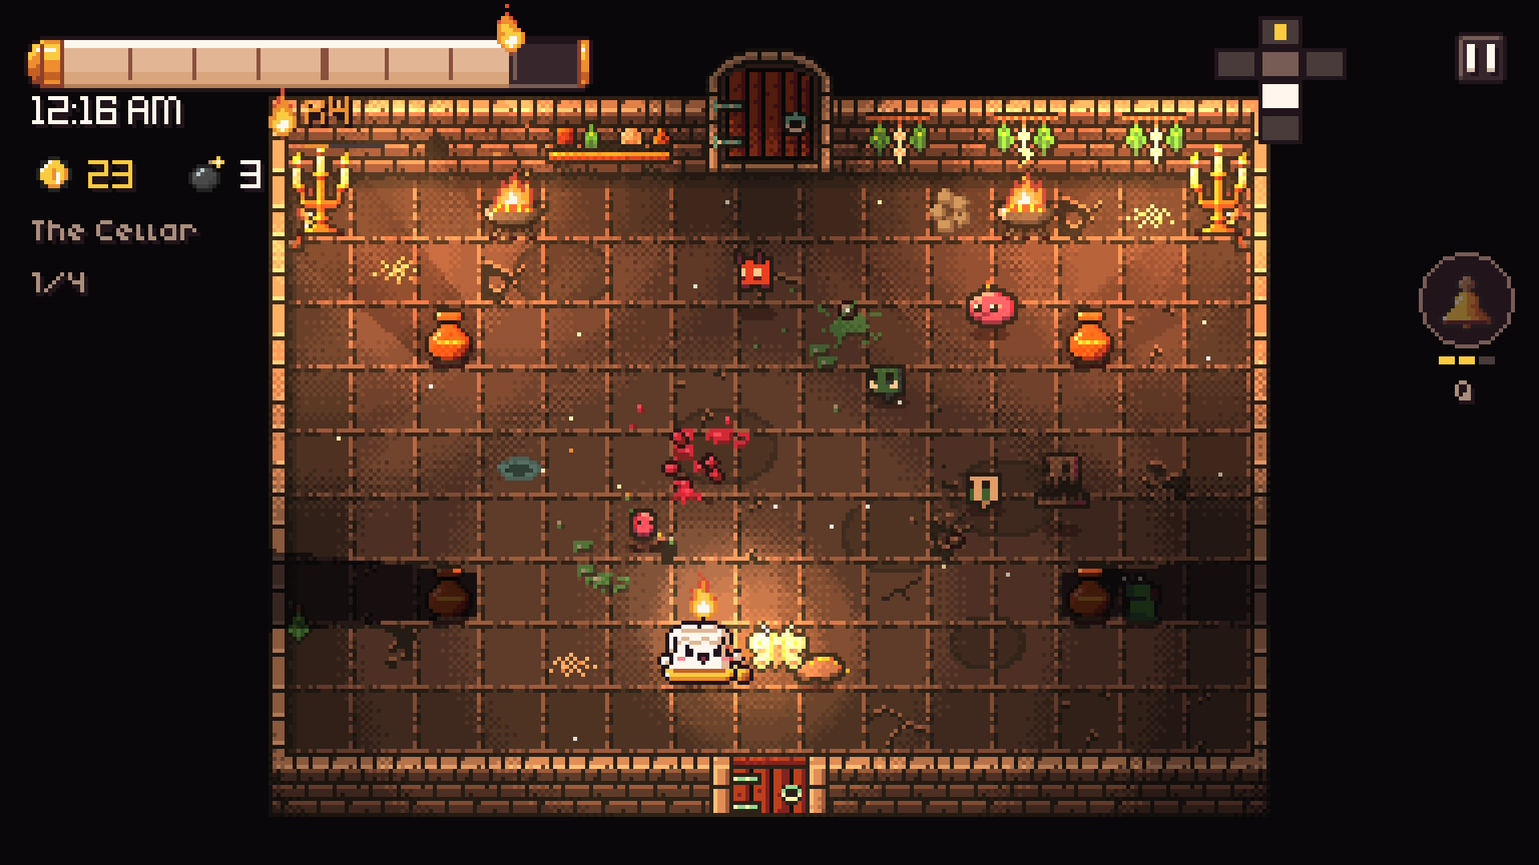
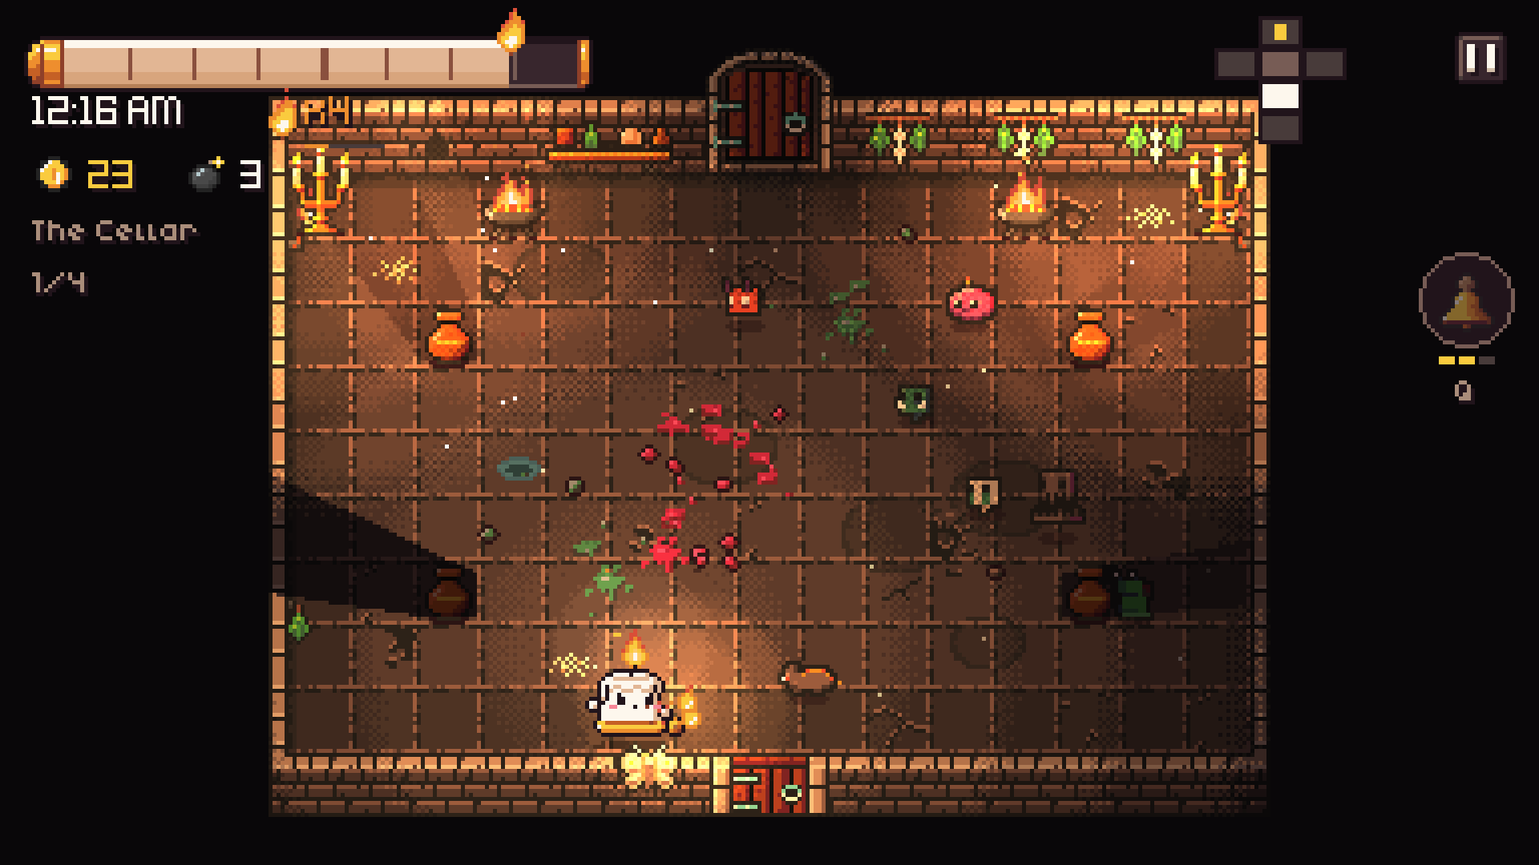
REL-08 C4 REL-10: hero key art (Tallow 3x, warm light, the Wax Mother), brightness judge, 16:9 touch shots for Play
- scripts/store_shots.gd: new key-art layouts 'hero' and 'hero_tall': Tallow
  fires at the Wax Mother (a guardian made for this game) lit by her own
  candles, one Melt Drop, a clean Cellar floor, warm darkness; every key is
  also a --key<name> flag. Flames are caught in flight and any hit flash is
  cleared, Tallow gets a fighting face (no blink), and every staging run starts
  from a seasoned save (all achievements earned) so no first-time toast lands
  on a picture (05_boss_card and 06_low_wax had 'BELL CLIMBER' toasts).
- tools/store_art.py: the capsules, Play feature graphic, itch cover and press
  key art use the hero renders at art scale 12 (main), 9 (header), 11/10
  (vertical / library), 8 (Play), 7 (itch): Tallow 3x bigger in the main and
  header capsules. A per-pixel mid-tone lift and a shallower stepped darkness
  (no blur, whole-number scaling only). Every run ends with a judge: mean luma
  >= 70 and < 35% of pixels below 30 per capsule. Each render now runs on a
  throw-away save profile.
  Judge (1.9.3 -> now): main 34.8/68% -> 108.6/9.4%, header 30.4/72% ->
  114.7/6.7%, small 46.1/70% -> 86.9/14.6%, vertical -> 118.2/6.2%, library
  capsule -> 118.5/4.4%, library hero -> 80.0/19.3%, Play 31.1/74% ->
  98.2/9.8%, itch 31.5/72% -> 109.7/6.4%: all PASS. The warm pool (luma >= 110)
  covers 37-52% of each capsule. --review also writes small_capsule_on_steam.png
  (231x87 and 184x69 on #1b2838): the logo reads at both sizes.
[…]

diff --git a/wax-and-wane/tools/store_art.py b/wax-and-wane/tools/store_art.py
@@ -14,7 +14,13 @@ Options:
     --import        run `godot --headless --import` first (after new or changed assets)
     --no-render     rebuild the images from the last renders in build/store_raw/ (a few seconds)
     --raw DIR       where the raw renders go (default build/store_raw, git-ignored)
-    --review DIR    also write review sheets: every capsule at the size Steam really shows it
+    --review DIR    also write review sheets: every capsule at the size Steam really shows it, on Steam's
+                    dark-blue page (#1b2838), plus small_capsule_on_steam.png at 231 x 87 and 184 x 69
+
+Every run ends with the brightness judge (REL-08 / C4): each capsule's mean luma must be >= 70/255 with fewer
+than 35% of its pixels darker than 30, so the art doesn't sink into Steam's dark page. The capsules use the
+"hero" key-art layouts (scripts/store_shots.gd): Tallow about three times bigger than before, in one warm pool
+of light, beside the Wax Mother (a guardian made for this game).
 
 Output: docs/marketing/store_assets/ (README.md there lists each file and where it is uploaded).
 """
@@ -23,6 +29,7 @@ import os
 import shutil
 import subprocess
 import sys
+import tempfile
 
 import numpy as np
 from PIL import Image, ImageDraw, ImageFont
@@ -41,12 +48,18 @@ STEPS = np.array([1.0, 0.7, 0.46, 0.27, 0.13, 0.04, 0.0], dtype=np.float32)
 # store screenshots, in upload order (the names scripts/store_shots.gd saves)
 STEAM_SHOTS = ["cellar_fight", "boss_fight", "chapel_light", "seance", "boss_card", "low_wax", "treasure",
                "relic_aloft", "shop", "title"]
-PHONE_SHOTS = ["cellar_fight", "boss_fight", "relic_aloft"]
-RENDERS = [  # (raw folder, window, autotest arguments): run one after another (they share one save file)
-    ("keyart", "1920x1080", ["--keyart"]),                          # the cast laid out wide
-    ("keyart_tall", "1920x1080", ["--keyart", "--keylayout=tall"]),  # ...and stacked, for portrait capsules
+PHONE_SHOTS = ["cellar_fight", "boss_fight", "relic_aloft"]   # 18:9 (2:1) extras
+# Google Play's phone screenshots: 16:9 at 1920 x 1080 with the touch HUD (Play wants at least four 16:9
+# shots of 1080p or more before it recommends a game), the clock-and-candle shot first
+PHONE16_SHOTS = ["cellar_fight", "boss_fight", "chapel_light", "seance", "low_wax", "relic_aloft"]
+RENDERS = [  # (raw folder, window, autotest arguments): one after another, each on its own fresh save profile
+    ("keyart", "1920x1080", ["--keyart"]),                          # the cast laid out wide (page background)
+    ("keyart_tall", "1920x1080", ["--keyart", "--keylayout=tall"]),  # ...and stacked
+    ("keyart_hero", "1920x1080", ["--keyart", "--keylayout=hero"]),            # the capsules: Tallow and the Wax Mother
+    ("keyart_hero_tall", "1920x1080", ["--keyart", "--keylayout=hero_tall"]),  # ...stacked, for portrait capsules
     ("shots", "1920x1080", ["--shots-store"]),
     ("phone", "2160x1080", ["--shots-store", "--phone"]),   # 18:9 phone, the widest Google Play accepts (2:1)
+    ("phone16x9", "1920x1080", ["--shots-store", "--phone"]),   # 16:9 with the touch HUD (Play's recommendations)
 ]
 
 
@@ -62,8 +75,13 @@ def render(raw):
                "--rendering-driver", "opengl3", "--resolution", res, "--",
                "--autotest"] + extra + ["--shots=" + d]
         print("[store_art] rendering %s at %s ..." % (name, res), flush=True)
+        # a private, throw-away save profile: the staging plays seeded runs and marks every achievement as
+        # earned (no toasts in the pictures), which must never land in a real player's save
+        prof = tempfile.mkdtemp(prefix="waxandwane_store.")
+        env = dict(os.environ, XDG_DATA_HOME=prof)
         with open(os.path.join(raw, name + ".log"), "w") as log:
-            r = subprocess.run(cmd, stdout=log, stderr=subprocess.STDOUT, timeout=900)
+            r = subprocess.run(cmd, stdout=log, stderr=subprocess.STDOUT, timeout=900, env=env)
+        shutil.rmtree(prof, ignore_errors=True)
         made = sorted(f for f in os.listdir(d) if f.endswith(".png"))
         print("[store_art]   exit %d, %d images" % (r.returncode, len(made)))
         with open(os.path.join(raw, name + ".log")) as log:
@@ -104,6 +122,15 @@ def darken(img, t):
     bg = np.array(CLEAR, dtype=np.float32)
     out = bg + (a - bg) * f
     return Image.fromarray(np.clip(out + 0.5, 0, 255).astype(np.uint8), "RGB")
+
+
+def lift(img, g):
+    """Lifts the mid-tones of a native-size image by a per-channel gamma curve (g < 1 brightens). A per-pixel
+    lookup: every pixel stays a hard square, nothing is blurred or blended between pixels."""
+    if g == 1.0:
+        return img
+    lut = [int(round(255.0 * (v / 255.0) ** g)) for v in range(256)]
+    return img.convert("RGB").point(lut * 3)
 
 
 def ramp(d, r0, r1):
@@ -167,6 +194,10 @@ def logo(k, shadow=True):
 # ---------------------------------------------------------------- key art
 
 class KeyArt:
+    # sprite boxes above each creature's feet (game pixels): Tallow with its flame, the hero guardian
+    TALLOW_BOX = (-12, -30, 12, 2)
+    GUARD_BOX = (-21, -40, 21, 2)
+
     def __init__(self, raw, layout="keyart"):
         d = os.path.join(raw, layout)
         self.full = Image.open(os.path.join(d, "keyart_full.png")).convert("RGB")
@@ -182,11 +213,24 @@ class KeyArt:
         self.cast = ((min(xs) + max(xs)) / 2.0, (min(ys) + max(ys)) / 2.0)
         self.room = self.info["room"]
 
+    def pair_box(self):
+        """The box round Tallow (with its flame) and the guardian, in keyart_full.png pixels."""
+        tx, ty = self.tallow
+        b = [tx + self.TALLOW_BOX[0], ty + self.TALLOW_BOX[1], tx + self.TALLOW_BOX[2], ty + self.TALLOW_BOX[3]]
+        if "guardian" in self.info:
+            gx, gy = self.info["guardian"]
+            b = [min(b[0], gx + self.GUARD_BOX[0]), min(b[1], gy + self.GUARD_BOX[1]),
+                 max(b[2], gx + self.GUARD_BOX[2]), max(b[3], gy + self.GUARD_BOX[3])]
+        return b
+
     def point(self, ref):
-        """("tallow" | "cast" | "room", dx, dy) -> a point in keyart_full.png."""
+        """("tallow" | "cast" | "pair" | "room", dx, dy) -> a point in keyart_full.png."""
         name, dx, dy = ref
         if name == "tallow":
             x, y = self.tallow
+        elif name == "pair":   # the middle of Tallow and the guardian
+            b = self.pair_box()
+            x, y = (b[0] + b[2]) / 2.0, (b[1] + b[3]) / 2.0
         elif name == "cast":
             x, y = self.cast
         else:
@@ -195,11 +239,13 @@ class KeyArt:
 
     def compose(self, size, k, centre, logo_k=0, logo_at=(0.5, 0.2), pool=(0, -14, 90, 70), pool_r=(0.5, 1.3),
                 edge=(0.0, 0.0), edge_sides="lrtb", plate_strength=0.75, plate_soft=16, dim=1.0,
-                guard=(0, -18, 30, 32), fade_l=None):
+                guard=(0, -18, 30, 32), fade_l=None, depth=1.0, gamma=1.0):
+        """depth: how dark the stepped darkness outside the light pool gets (1 = down to the clear colour,
+        0.3 = only a step or two); gamma: the mid-tone lift (lift())."""
         W, H = size
         nw, nh = -(-W // k), -(-H // k)
         cx, cy = self.point(centre)
-        nat = window(self.full, cx, cy, nw, nh)
+        nat = lift(window(self.full, cx, cy, nw, nh), gamma)
         ox, oy = (nw * k - W) // 2, (nh * k - H) // 2
         # darkness: a pool of light round Tallow, the borders, and a backing under the logo
         tx, ty = self.tallow[0] - cx + nw / 2.0, self.tallow[1] - cy + nh / 2.0
@@ -207,8 +253,9 @@ class KeyArt:
         if guard and "guardian" in self.info:   # the guardian keeps its cold rim light
             gx, gy = self.info["guardian"][0] - cx + nw / 2.0, self.info["guardian"][1] - cy + nh / 2.0
             t = np.minimum(t, light_pool(nw, nh, gx + guard[0], gy + guard[1], guard[2], guard[3], 0.45, 1.15))
+        t = t * depth
         if edge[0] or edge[1]:
-            t = np.maximum(t, edges(nw, nh, edge[0], edge[1], edge_sides))
+            t = np.maximum(t, edges(nw, nh, edge[0], edge[1], edge_sides) * max(depth, 0.5))
         if fade_l:   # a dark panel on the left (for a logo beside the art): black up to x0, clear from x1
             xx = np.arange(nw, dtype=np.float32)[None, :].repeat(nh, 0)
             t = np.maximum(t, 1.0 - ramp(xx, fade_l[0], fade_l[1]))
@@ -232,34 +279,70 @@ class KeyArt:
 
 # Every capsule: output size, art scale k, crop centre, logo scale and centre (fractions of the size),
 # the light pool round Tallow (dx, dy, rx, ry in game pixels) and dark borders.
+# The capsules use the "hero" renders (Tallow and the Wax Mother); `depth` keeps the darkness outside the warm pool
+# to a step or two and `gamma` lifts the mid-tones, so every capsule passes the judge (judge() below).
+HERO = dict(depth=0.34, gamma=0.86, plate_strength=0.6)
 CAPSULES = [
-    # (file, kwargs)
-    ("steam/header_capsule_920x430.png", dict(size=(920, 430), k=3, centre=("tallow", -36, -31), logo_k=2, logo_at=(0.27, 0.47),
-                                              pool=(14, -14, 110, 66), edge=(16, 10), plate_soft=20, fade_l=(96, 138))),
-    ("steam/small_capsule_462x174.png", dict(size=(462, 174), k=2, centre=("tallow", 0, -40), logo_k=2, logo_at=(0.5, 0.37),
-                                             pool=(0, -14, 70, 40), edge=(22, 10), plate_strength=0.55, plate_soft=10,
-                                             guard=None)),
-    ("steam/main_capsule_1232x706.png", dict(size=(1232, 706), k=4, centre=("cast", 8, -6), logo_k=4, logo_at=(0.5, 0.16),
-                                             pool=(14, -12, 130, 80), edge=(20, 12))),
-    ("steam/vertical_capsule_748x896.png", dict(layout="tall", size=(748, 896), k=4, centre=("cast", 0, -14), logo_k=3, logo_at=(0.5, 0.12),
-                                                pool=(18, -12, 90, 90), edge=(16, 20))),
-    ("steam/library_capsule_600x900.png", dict(layout="tall", size=(600, 900), k=4, centre=("cast", 0, -10), logo_k=2, logo_at=(0.5, 0.1),
-                                               pool=(18, -12, 80, 90), edge=(14, 20))),
-    ("steam/library_hero_3840x1240.png", dict(size=(3840, 1240), k=9, centre=("tallow", 40, -22),
-                                              pool=(16, -12, 120, 64), edge=(150, 12))),
+    # (file, kwargs): k = art scale (whole numbers only), centre = crop centre, logo_k / logo_at = logo scale and place
+    ("steam/header_capsule_920x430.png", dict(layout="hero", size=(920, 430), k=9, centre=("pair", -10, -3), logo_k=2,
+                                              logo_at=(0.25, 0.14), pool=(16, -10, 34, 26), pool_r=(0.7, 2.2), edge=(3, 2),
+                                              plate_soft=6, **HERO)),
+    ("steam/small_capsule_462x174.png", dict(layout="hero", size=(462, 174), k=3, centre=("pair", 0, -6), logo_k=2, logo_at=(0.5, 0.27),
+                                             pool=(16, -10, 40, 26), pool_r=(0.7, 2.2), edge=(3, 2), plate_soft=5,
+                                             guard=None, **dict(HERO, plate_strength=0.5))),
+    ("steam/main_capsule_1232x706.png", dict(layout="hero", size=(1232, 706), k=12, centre=("pair", 0, -7), logo_k=4, logo_at=(0.5, 0.14),
+                                             pool=(16, -10, 36, 26), pool_r=(0.7, 2.2), edge=(3, 2), plate_soft=4, **HERO)),
+    ("steam/vertical_capsule_748x896.png", dict(layout="hero_tall", size=(748, 896), k=11, centre=("pair", 0, -6), logo_k=3,
+                                                logo_at=(0.5, 0.085), pool=(8, -14, 30, 34), pool_r=(0.7, 2.2), edge=(3, 3),
+                                                plate_soft=4, **HERO)),
+    ("steam/library_capsule_600x900.png", dict(layout="hero_tall", size=(600, 900), k=10, centre=("pair", 0, -7), logo_k=2,
+                                               logo_at=(0.5, 0.07), pool=(8, -14, 28, 34), pool_r=(0.7, 2.2), edge=(3, 3),
+                                               plate_soft=4, **HERO)),
+    # k=14: the window is as wide as the room, so no black outside it; Tallow's face sits in Steam's centre
+    # 860 x 380 safe area (the part every window size keeps)
+    ("steam/library_hero_3840x1240.png", dict(layout="hero", size=(3840, 1240), k=14, centre=("tallow", 22, -19),
+                                              pool=(16, -10, 60, 36), pool_r=(0.7, 2.2), edge=(3, 3), **dict(HERO, depth=0.2, gamma=0.8))),
     ("steam/page_background_1438x810.png", dict(size=(1438, 810), k=5, centre=("room", 0, 0),
                                                 pool=(20, -10, 120, 80), pool_r=(0.4, 1.6), edge=(30, 20), dim=0.42)),
-    ("google_play/feature_graphic_1024x500.png", dict(size=(1024, 500), k=3, centre=("tallow", 51, -46), logo_k=3, logo_at=(0.5, 0.165),
-                                                       pool=(14, -12, 110, 64), edge=(18, 12))),
-    ("itch/cover_630x500.png", dict(size=(630, 500), k=3, centre=("tallow", 22, -36), logo_k=2, logo_at=(0.5, 0.16),
-                                    pool=(0, -14, 64, 56), edge=(14, 14))),
-    ("press/keyart_1920x1080.png", dict(size=(1920, 1080), k=6, centre=("cast", 6, -6),
-                                        pool=(14, -12, 120, 76), edge=(20, 12))),
-    ("press/keyart_logo_1920x1080.png", dict(size=(1920, 1080), k=6, centre=("cast", 6, -14), logo_k=4, logo_at=(0.5, 0.15),
-                                             pool=(14, -12, 120, 76), edge=(20, 12))),
-    ("press/keyart_3840x2160.png", dict(size=(3840, 2160), k=12, centre=("cast", 6, -6),
-                                        pool=(14, -12, 120, 76), edge=(20, 12))),
+    ("google_play/feature_graphic_1024x500.png", dict(layout="hero", size=(1024, 500), k=8, centre=("pair", 0, -10), logo_k=3,
+                                                       logo_at=(0.5, 0.14), pool=(16, -10, 36, 26), pool_r=(0.7, 2.2), edge=(3, 2),
+                                                       plate_soft=4, **HERO)),
+    ("itch/cover_630x500.png", dict(layout="hero", size=(630, 500), k=7, centre=("pair", 0, -12), logo_k=2, logo_at=(0.5, 0.11),
+                                    pool=(16, -10, 34, 26), pool_r=(0.7, 2.2), edge=(3, 3), plate_soft=4, **HERO)),
+    ("press/keyart_1920x1080.png", dict(layout="hero", size=(1920, 1080), k=12, centre=("pair", 0, -2),
+                                        pool=(16, -10, 46, 30), pool_r=(0.7, 2.2), edge=(4, 3), **HERO)),
+    ("press/keyart_logo_1920x1080.png", dict(layout="hero", size=(1920, 1080), k=12, centre=("pair", 0, -12), logo_k=5, logo_at=(0.5, 0.12),
+                                             pool=(16, -10, 46, 30), pool_r=(0.7, 2.2), edge=(4, 3), plate_soft=4, **HERO)),
+    ("press/keyart_3840x2160.png", dict(layout="hero", size=(3840, 2160), k=24, centre=("pair", 0, -2),
+                                        pool=(16, -10, 46, 30), pool_r=(0.7, 2.2), edge=(4, 3), **HERO)),
 ]
+
+# the brightness judge (REL-08 / C4): every capsule-like image a store shows next to other games
+JUDGE = ["steam/header_capsule_920x430.png", "steam/small_capsule_462x174.png", "steam/main_capsule_1232x706.png",
+         "steam/vertical_capsule_748x896.png", "steam/library_capsule_600x900.png", "steam/library_header_920x430.png",
+         "steam/library_hero_3840x1240.png", "google_play/feature_graphic_1024x500.png", "itch/cover_630x500.png"]
+MIN_MEAN, DARK, MAX_DARK = 70.0, 30, 0.35
+
+
+def judge(files, out=None):
+    """Mean luma and the share of near-black pixels of every capsule (Rec. 601 luma, as PIL's "L")."""
+    rows, ok = [], True
+    for rel in files:
+        if rel not in JUDGE:
+            continue
+        a = np.asarray(Image.open(os.path.join(OUT, rel)).convert("L"), dtype=np.float32)
+        mean, dark = float(a.mean()), float((a < DARK).mean())
+        good = mean >= MIN_MEAN and dark < MAX_DARK
+        ok &= good
+        rows.append("%-46s mean %5.1f  below %d: %4.1f%%  %s" % (rel, mean, DARK, dark * 100, "PASS" if good else "FAIL"))
+    head = "[store_art] judge: mean luma >= %d and < %d%% of pixels below %d" % (MIN_MEAN, MAX_DARK * 100, DARK)
+    print(head)
+    for r in rows:
+        print("[store_art]   " + r)
+    if out:
+        with open(out, "w") as f:
+            f.write(head + "\n" + "\n".join(rows) + "\n")
+    return ok
 
 
 def logo_files():
@@ -317,6 +400,17 @@ def screenshots(raw):
         p = "google_play/phone_%02d_%s_%dx%d.png" % (i + 1, name, out.width, out.height)
         save(out, p)
         made.append(p)
+    for i, name in enumerate(PHONE16_SHOTS):
+        src = os.path.join(raw, "phone16x9", name + ".png")
+        if not os.path.exists(src):
+            print("[store_art] missing 16:9 phone shot", name)
+            continue
+        img = Image.open(src).convert("RGB")
+        check_shot(img, src)
+        out = up(img, 1080 // img.height)
+        p = "google_play/phone16x9_%02d_%s_%dx%d.png" % (i + 1, name, out.width, out.height)
+        save(out, p)
+        made.append(p)
     return made
 
 
@@ -363,7 +457,7 @@ def overview(files, review_dir=None):
         img = Image.open(os.path.join(OUT, rel))
         if rel in DISPLAY:
             w, h = DISPLAY[rel][-1]
-        elif rel.startswith("screenshots/") or rel.startswith("google_play/phone"):
+        elif rel.startswith("screenshots/") or rel.startswith("google_play/phone"):   # (both phone sets)
             w, h = img.width // 5, img.height // 5
         elif "logo" in rel:
             w, h = img.width // 4, img.height // 4
@@ -409,6 +503,12 @@ def overview(files, review_dir=None):
                 s.paste(i, (xx, 0), i)
                 xx += i.width + 10
             s.save(os.path.join(review_dir, "review_" + os.path.basename(rel)))
+        # the small capsule as Steam lists it (search results, wishlists): 231 x 87 and 184 x 69 on #1b2838
+        img = Image.open(os.path.join(OUT, "steam/small_capsule_462x174.png"))
+        s = Image.new("RGB", (231 + 184 + 48, 87 + 32), (27, 40, 56))
+        s.paste(shrink(img, 231, 87), (16, 16))
+        s.paste(shrink(img, 184, 69), (16 + 231 + 16, 16 + 9))
+        s.save(os.path.join(review_dir, "small_capsule_on_steam.png"))
 
 
 def main():
@@ -427,7 +527,8 @@ def main():
     if "--no-render" not in args:
         render(raw)
     files = screenshots(raw)
-    ka = {"wide": KeyArt(raw), "tall": KeyArt(raw, "keyart_tall")}
+    ka = {"wide": KeyArt(raw), "tall": KeyArt(raw, "keyart_tall"), "hero": KeyArt(raw, "keyart_hero"),
+          "hero_tall": KeyArt(raw, "keyart_hero_tall")}
     for rel, kw in CAPSULES:
         kw = dict(kw)
         save(ka[kw.pop("layout", "wide")].compose(**kw), rel)
@@ -445,7 +546,8 @@ def main():
     for rel in files:
         im = Image.open(os.path.join(OUT, rel))
         print("[store_art] %-52s %5d x %-5d %s" % (rel, im.width, im.height, im.mode))
-    print("[store_art] done: %d files in %s" % (len(files), os.path.relpath(OUT, ROOT)))
+    ok = judge(files, os.path.join(review, "judge.txt") if review else None)
+    print("[store_art] done: %d files in %s; judge %s" % (len(files), os.path.relpath(OUT, ROOT), "PASS" if ok else "FAIL"))
 
 
 if __name__ == "__main__":

diff --git a/wax-and-wane/docs/marketing/store_assets/README.md b/wax-and-wane/docs/marketing/store_assets/README.md
@@ -9,6 +9,27 @@ The only text on any capsule is the WAX & WANE logo. Steam does not allow review
 
 `overview.png` is a contact sheet of every file, shown at about the size each store displays it.
 
+**Since 2.0.0 the capsules use the "hero" key art:** Tallow about three times bigger than before, in one warm
+pool of light, beside the Wax Mother (a guardian made for this game) lit by her own candles. Every run of
+`tools/store_art.py` ends with a brightness judge, so the art never sinks into Steam's dark page: each capsule
+needs a mean luma of at least 70/255 with fewer than 35% of its pixels below 30. At 2.0.0:
+
+| Capsule | Mean luma | Pixels below 30 |
+|---|---:|---:|
+| header 920x430 (and library header) | 114.7 | 6.7% |
+| small 462x174 | 86.9 | 14.6% |
+| main 1232x706 | 108.6 | 9.4% |
+| vertical 748x896 | 118.2 | 6.2% |
+| library capsule 600x900 | 118.5 | 4.4% |
+| library hero 3840x1240 | 80.0 | 19.3% |
+| Play feature graphic 1024x500 | 98.2 | 9.8% |
+| itch cover 630x500 | 109.7 | 6.4% |
+
+(1.9.3, for comparison: main 34.8 with 68% below 30, header 30.4 / 72%, small 46.1 / 70%, itch cover 31.5 / 72%.)
+The page background stays dark and quiet on purpose (Steam draws the page text on it), so it is not judged.
+`--review DIR` also writes `small_capsule_on_steam.png`: the small capsule at Steam's real 231 x 87 and
+184 x 69 sizes on Steam's #1b2838 page.
+
 ## Re-make everything (after the final build)
 
 ```
@@ -25,7 +46,10 @@ banners, no empty rooms.
 You can also run the renders on their own:
 - `-- --autotest --shots-store --shots=/abs/dir` takes the gameplay shots. Run it at
   `--resolution 1920x1080`. Add `--phone` (at 2160x1080) for the touch HUD.
-- `-- --autotest --keyart [--keylayout=tall] --shots=/abs/dir` takes the key art.
+- `-- --autotest --keyart [--keylayout=tall|hero|hero_tall] --shots=/abs/dir` takes the key art
+  (`hero` and `hero_tall` are the capsules; `wide` is still used for the page background).
+- Each render runs on its own throw-away save profile with every achievement already earned, so no
+  first-time toast lands on a picture and a player's save is never touched.
 
 ## Steam (Steamworks: Store Page Admin, then Graphical Assets)
 
@@ -53,14 +77,12 @@ Steam asks you to mark at least four screenshots as suitable for all ages. Use 0
 | File | Size | Upload as |
 |---|---|---|
 | `google_play/feature_graphic_1024x500.png` | 1024 x 500, 24-bit PNG | **Feature graphic** |
-| `google_play/phone_01_cellar_fight_2160x1080.png` | 2160 x 1080 | **Phone screenshots** (put this one first: it shows the clock and candle bar) |
-| `google_play/phone_02_boss_fight_2160x1080.png` | 2160 x 1080 | Phone screenshots |
-| `google_play/phone_03_relic_aloft_2160x1080.png` | 2160 x 1080 | Phone screenshots |
-| `screenshots/*.png` | 1920 x 1080 | **7-inch and 10-inch tablet screenshots** (and more phone ones if you want up to 8) |
+| `google_play/phone16x9_01_cellar_fight_1920x1080.png` to `phone16x9_06_relic_aloft_1920x1080.png` | 1920 x 1080, 16:9 | **Phone screenshots**, all six in number order (01 shows the clock and the candle), and the same six as **7-inch and 10-inch tablet screenshots** |
+| `google_play/phone_01_..._2160x1080.png` to `phone_03_...` | 2160 x 1080, 2:1 | optional extra phone screenshots |
 
-The phone shots use the touch HUD at 18:9. Play rejects screenshots whose long side is more than twice
-the short side, so 2160 x 1080 is the widest phone shape it accepts. The app icon is
-`../icons/google_play_512.png`.
+The phone shots use the touch HUD (sticks, bomb and keepsake buttons, no keyboard letters). Play asks games for
+at least four 16:9 landscape screenshots of 1920 x 1080 or more before it recommends them, hence the 16:9 set;
+2160 x 1080 (2:1) is the widest phone shape Play accepts at all. The app icon is `../icons/google_play_512.png`.
 
 ## itch.io (Edit game, then Uploads and images)
 
@@ -81,10 +103,12 @@ the short side, so 2160 x 1080 is the widest phone shape it accepts. The app ico
 
 ## What is in the pictures
 
-- **Key art:** a Crypt room at night. Tallow stands in a strong flame light. Four lodgers come at it:
-  a sootling, a wax blob, a snuffer and a wisp, with two flames in flight. The Sexton looms at the back
-  in a cold light. Stains are on the floor. The landscape capsules use the "wide" layout; the portrait
-  capsules use the "tall" one, where the same cast is stacked.
+- **Capsules and key art ("hero"):** the Cellar, warm. Tallow, close up and lit by its own flame, fires two
+  flames at the Wax Mother, who is lit by her own candles; one of her Melt Drops waits behind her. A clean
+  floor (no splats), so the art also suits the all-ages slots. The landscape capsules use `hero`; the portrait
+  ones use `hero_tall` (the Wax Mother behind, Tallow in front).
+- **Page background ("wide"):** a Crypt room at night, Tallow in a strong flame light, four lodgers, the
+  Sexton in a cold light at the back; dimmed so the page text stays readable.
 - **Screenshots** (seed 7, Tallow carrying Twin Wick and Moth Friend):
   1. a Cellar fight
   2. the Hour Fiend's clock hands
